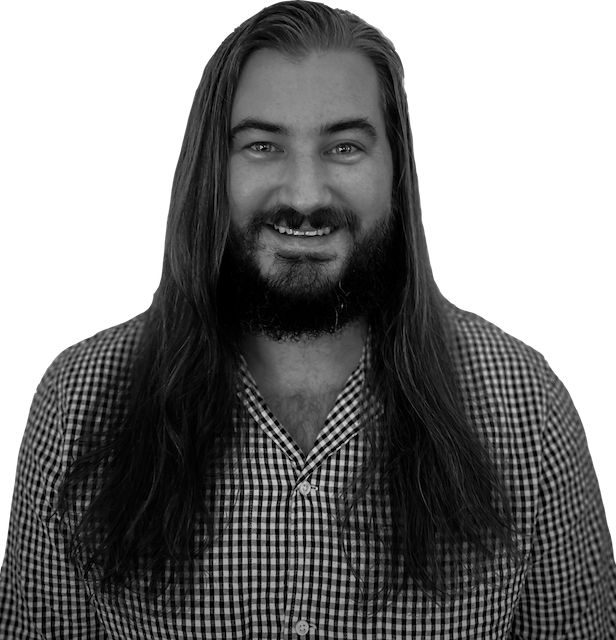
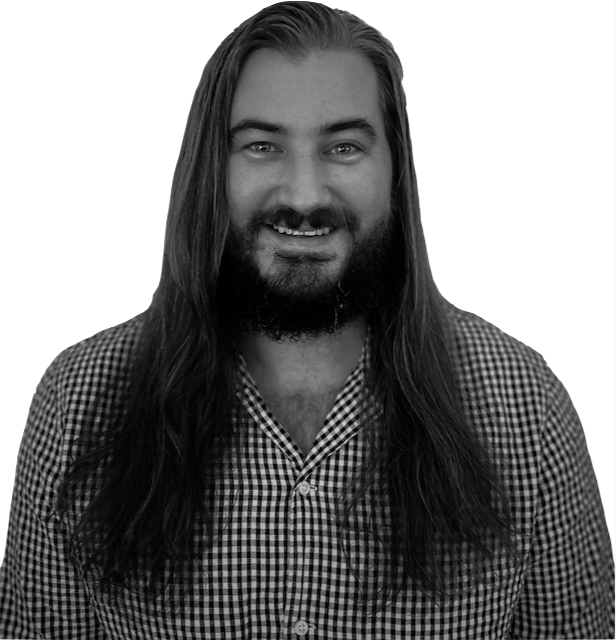
css is tough, tried to adjust images and attempt to resize, but I fear I made it worse

diff --git a/src/components/intro/Intro.js b/src/components/intro/Intro.js
@@ -8,8 +8,8 @@ const intro = () => {
       <div className="intro-body">
         <div className="intro-left">
           <div className="intro-left-wrap">
-            <h2 className="greeting">Hi! My name is</h2>
-            <h1 className="intro-name">Ted Glynn</h1>
+            <h2 className="greeting">Hi! I'm...</h2>
+            <h1 className="intro-name">Ted</h1>
             <div className="intro-titles">
               <div className="intro-titles-wrap">
                 <div className="intro-titles-item">DU Bootcamp Graduate</div>
@@ -40,11 +40,7 @@ const intro = () => {
           <div className="intro-shape-wrap">
             <div className="intro-shape"></div>
           </div>
-          <img
-            src="img/headshot.png"
-            alt="photo of Ted"
-            className="me-image"
-          ></img>
+          <img src="img/headshot.png" alt="Ted" className="me-image"></img>
         </div>
       </div>
     </>

diff --git a/src/components/intro/intro.css b/src/components/intro/intro.css
@@ -92,11 +92,11 @@
 
 .me-image{
     width: 100%;
-    height: 95%;
+    height: 100%;
     object-fit: cover;
     position: absolute;
     border-radius: 20px;
-    padding-top: 10px;
+    padding-top: 55px;
 }
 
 .intro-shape-wrap{
@@ -125,14 +125,15 @@
     .intro-left{
         margin: 0px;
         padding: 0px;
+        height: 80%;
     }
 
     .intro-left-wrap {
-        padding: 5px;
+        padding: 0px;
         text-align: center;
         align-items: center;
         justify-content: center;
-        height: 100%;
+        height: 80%;
     }
 
     .intro-description{
@@ -143,5 +144,10 @@
         display: flex;
         margin-top: 20px;
         justify-content: center;
+    }
+
+    .me-image{
+        height: 100%;
+        padding: 0px;
     }
 }

diff --git a/src/components/projects/projects.css b/src/components/projects/projects.css
@@ -62,6 +62,6 @@
 @media screen and (max-width: 480px){
     .project{
         width: 40%;
-        height: 14vh;
+        height: 12vh;
     }
 }
